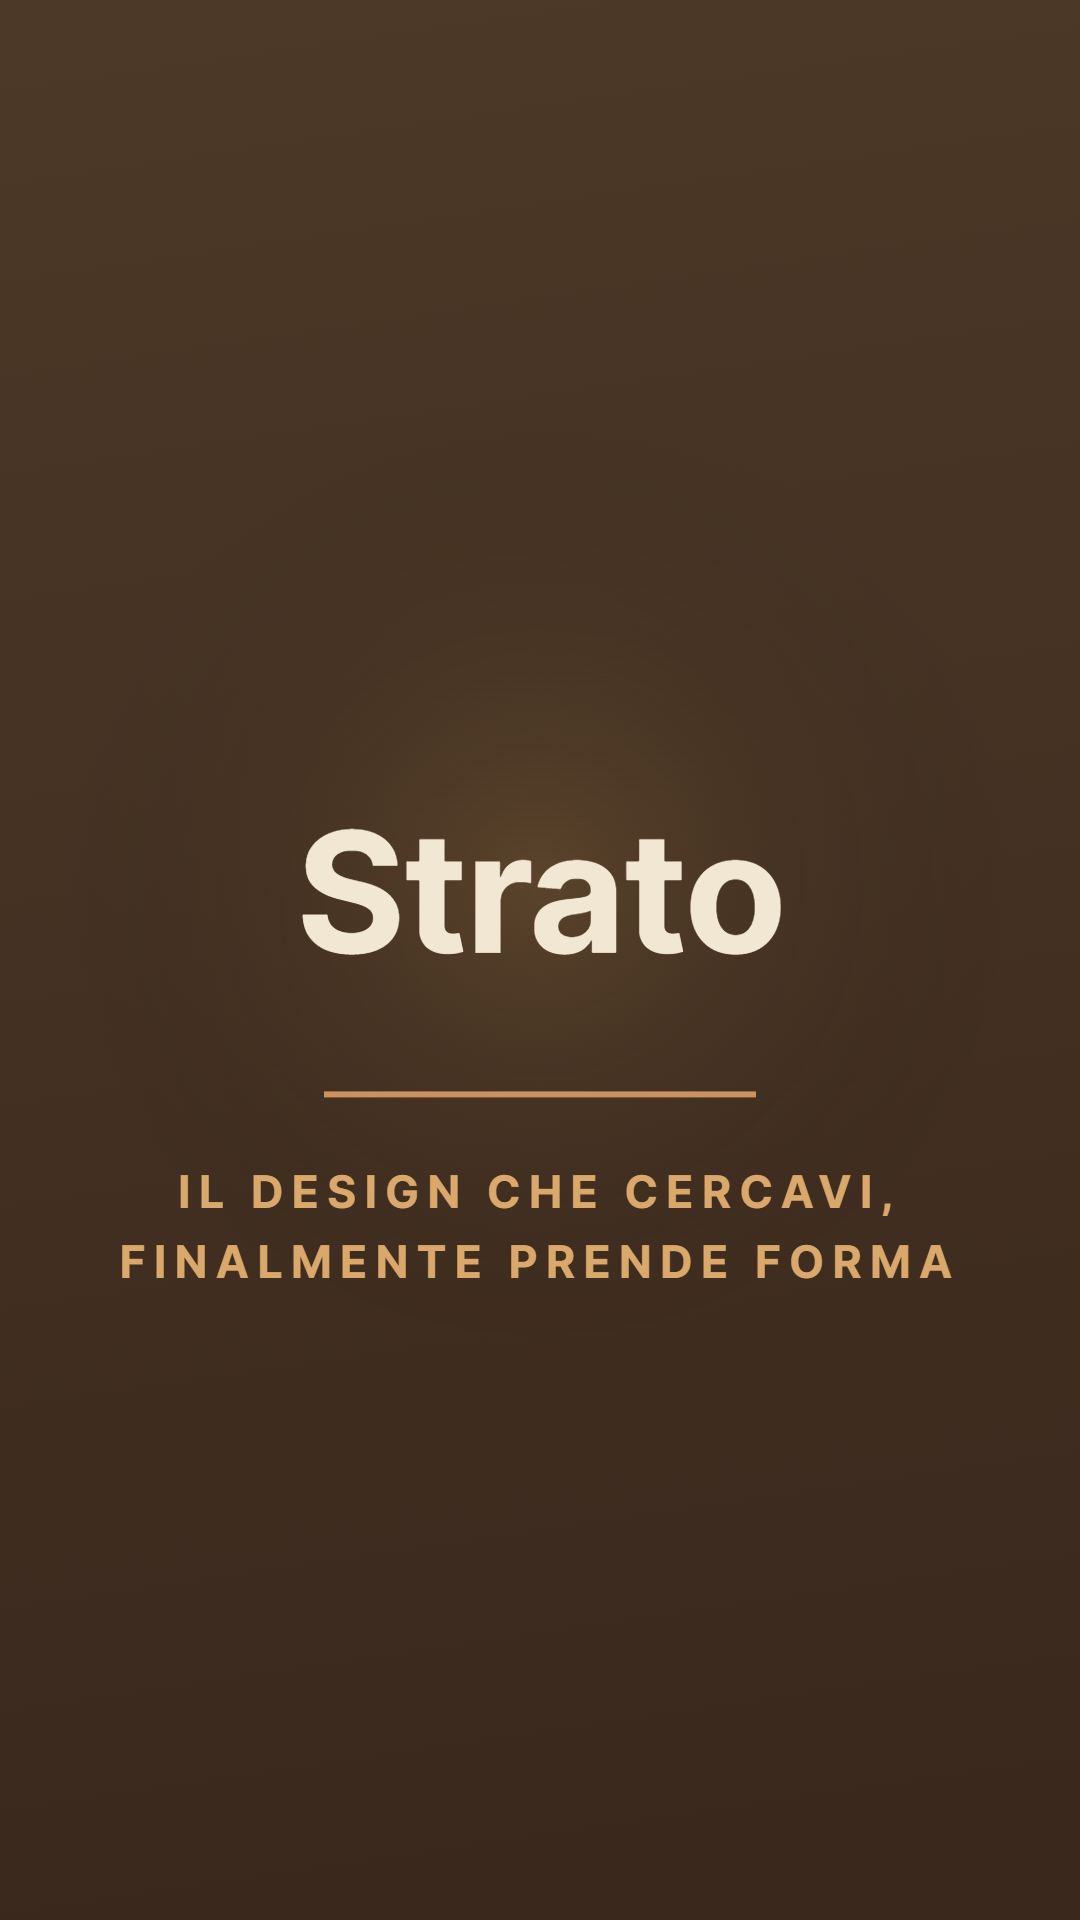
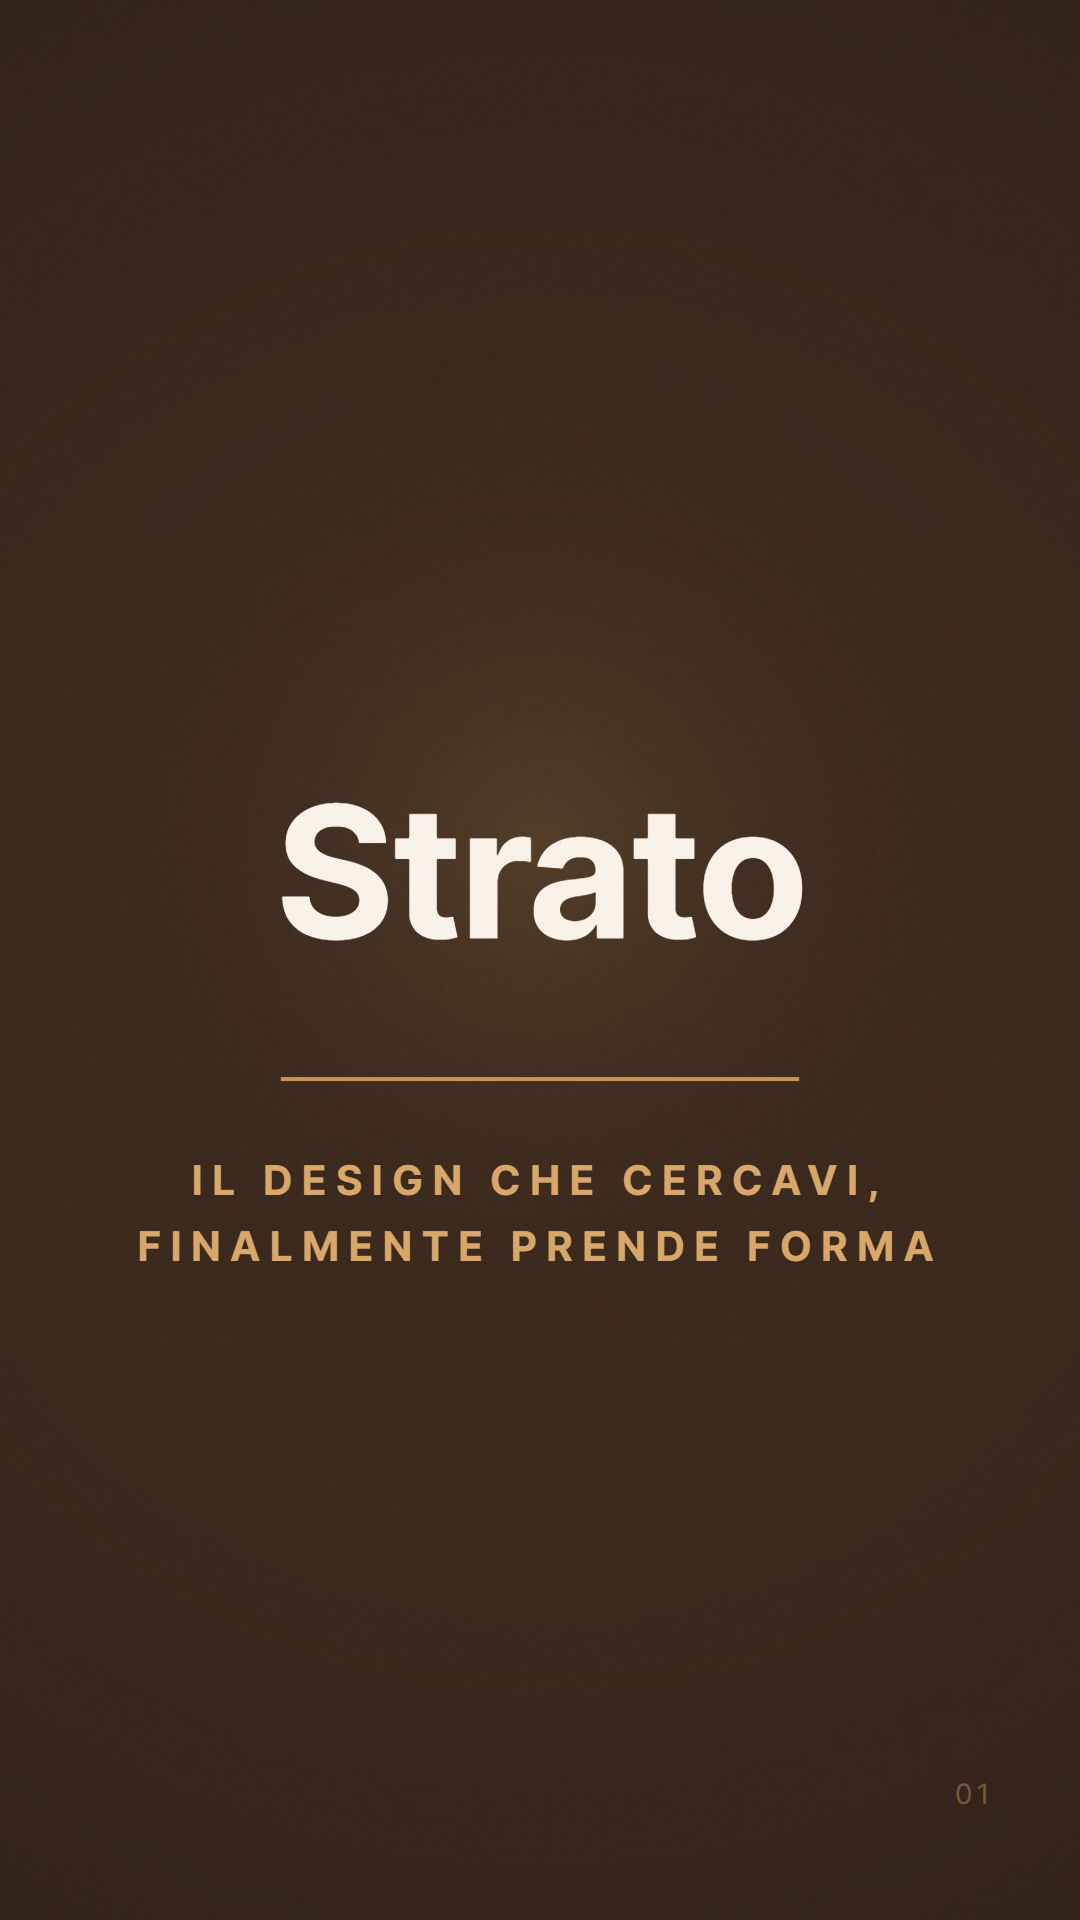
Add files via upload

diff --git a/src/styles/app.css b/src/styles/app.css
@@ -6200,3 +6200,28 @@ body.search-keyboard-lock{
 body.search-keyboard-lock .wrap{
   overflow:hidden!important;
 }
+
+
+/* ===================== v2db search focus color Strato =====================
+   Rimuove il blu nativo visibile su iOS/Safari nella searchbox Esplora,
+   sostituendo focus ring e caret con il tono Strato #B26349.
+   Non modifica layout, tastiera o scroll. */
+.searchbox{
+  caret-color:#B26349!important;
+  -webkit-tap-highlight-color:rgba(178,99,73,.14)!important;
+}
+.searchbox:focus,
+.searchbox:focus-visible{
+  outline:none!important;
+  border-color:rgba(178,99,73,.62)!important;
+  box-shadow:0 0 0 3px rgba(178,99,73,.20), inset 0 1px 0 var(--hi)!important;
+}
+body.dark .searchbox:focus,
+body.dark .searchbox:focus-visible{
+  border-color:rgba(178,99,73,.74)!important;
+  box-shadow:0 0 0 3px rgba(178,99,73,.24), inset 0 1px 0 rgba(255,255,255,.06)!important;
+}
+.searchbox::selection{
+  background:rgba(178,99,73,.24);
+  color:var(--text);
+}

diff --git a/index.html b/index.html
@@ -75,7 +75,7 @@
           if (closing) return;
           closing = true;
           const elapsed = performance.now() - startedAt;
-          const wait = Math.max(0, 3200 - elapsed);
+          const wait = Math.max(0, 4000 - elapsed);
           window.setTimeout(() => {
             overlay.classList.add("out");
             window.setTimeout(() => overlay.remove(), 620);
@@ -83,7 +83,7 @@
         };
         video.addEventListener("ended", close, { once: true });
         window.addEventListener("load", close, { once: true });
-        window.setTimeout(close, 5200);
+        window.setTimeout(close, 6500);
         try { video.play().catch(() => {}); } catch (e) {}
       })();
     </script>

diff --git a/README.md b/README.md
@@ -10,7 +10,7 @@ L’esperienza è editoriale, calda e materica: non marketplace, non e-commerce 
 - PWA installabile con manifest e service worker.
 - Dock stabile a 5 sezioni: Home, Esplora, Piaciuti, Carrello, Ordini.
 - Tema chiaro/scuro automatico con canvas light ufficiale `#F4EEE6`.
-- Patch corrente: `v2cz_intro_video_60fps_assets`.
+- Patch corrente: `v2dc_intro_video_90fps_4s_assets`.
 
 ## File di ingresso effettivo
 
@@ -255,3 +255,9 @@ public/assets/intro/intro-poster-dark.png
 ```
 
 Specifiche video correnti: 1080×1920, H.264, 60 fps, 3.5s, senza audio.
+
+
+La patch `v2da_search_keyboard_scroll_lock` corregge il bug ricerca/tastiera su iOS: quando la searchbox è focalizzata, il drag/scroll della pagina viene bloccato e il primo contatto fuori dal campo chiude la tastiera, evitando che la dock si stacchi dalla sua posizione. Il guard è limitato alla schermata Esplora con searchbox attiva; input, textarea e strumenti admin fuori da questo caso restano invariati.
+
+
+La patch `v2db_search_focus_color_strato` interviene solo sulla searchbox di Esplora: focus ring, caret e selezione testo usano il tono `#B26349`, rimuovendo il blu nativo dove controllabile via CSS. La logica tastiera/scroll di `v2da_search_keyboard_scroll_lock` resta invariata.